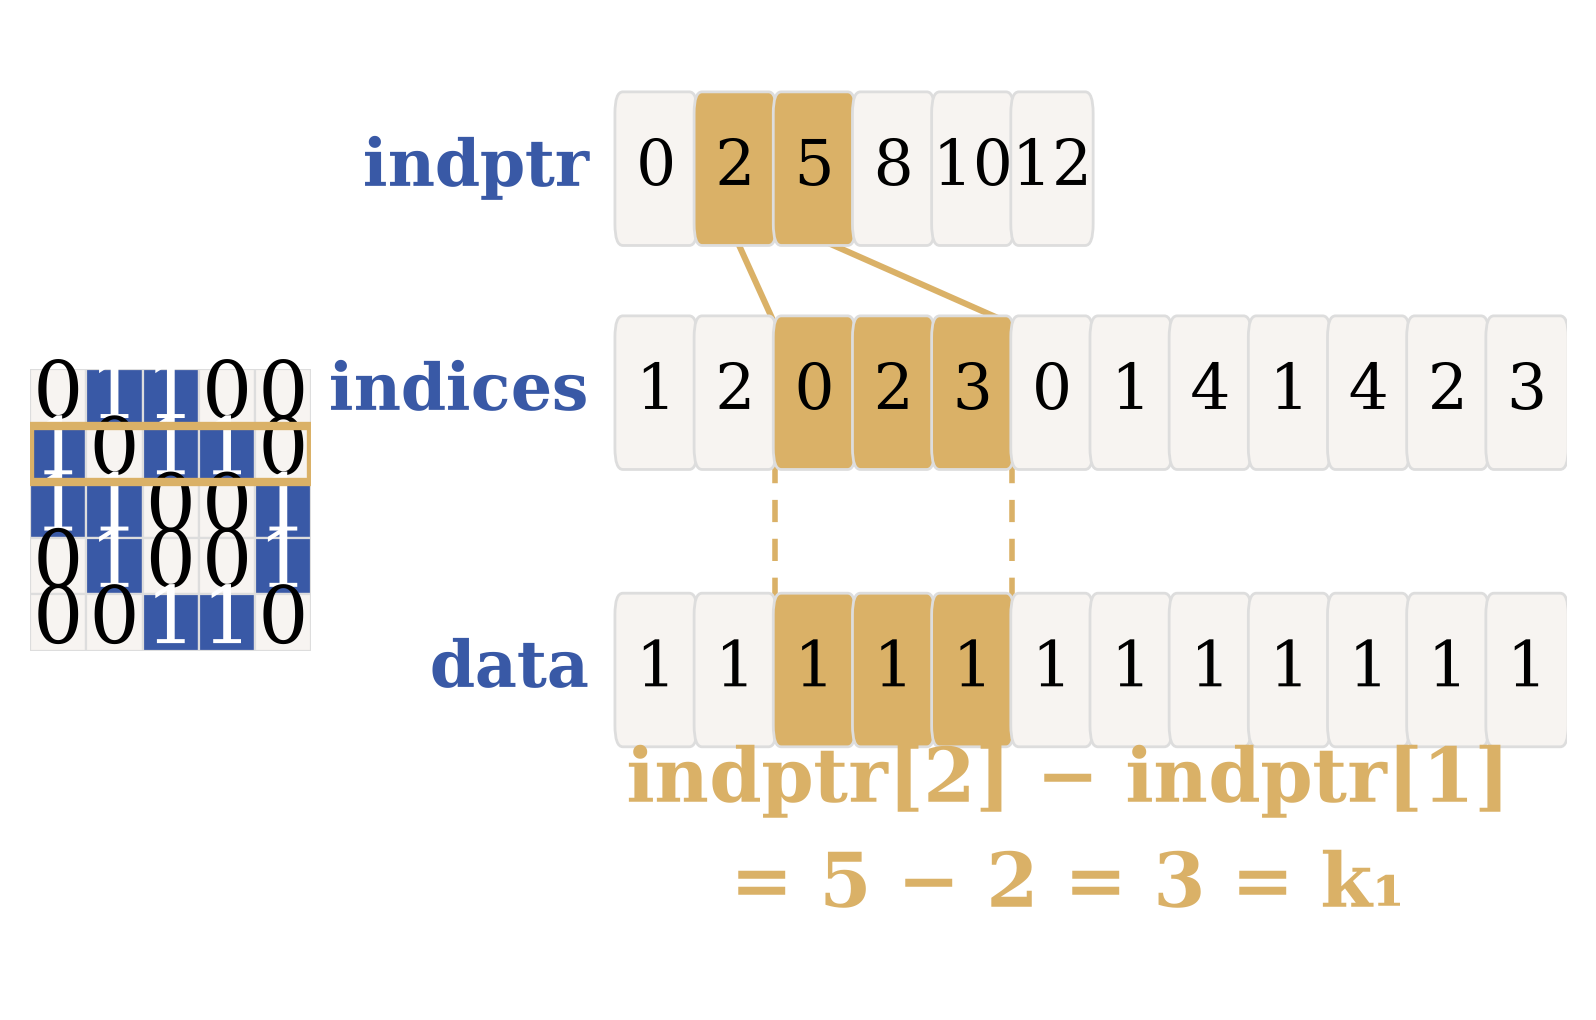
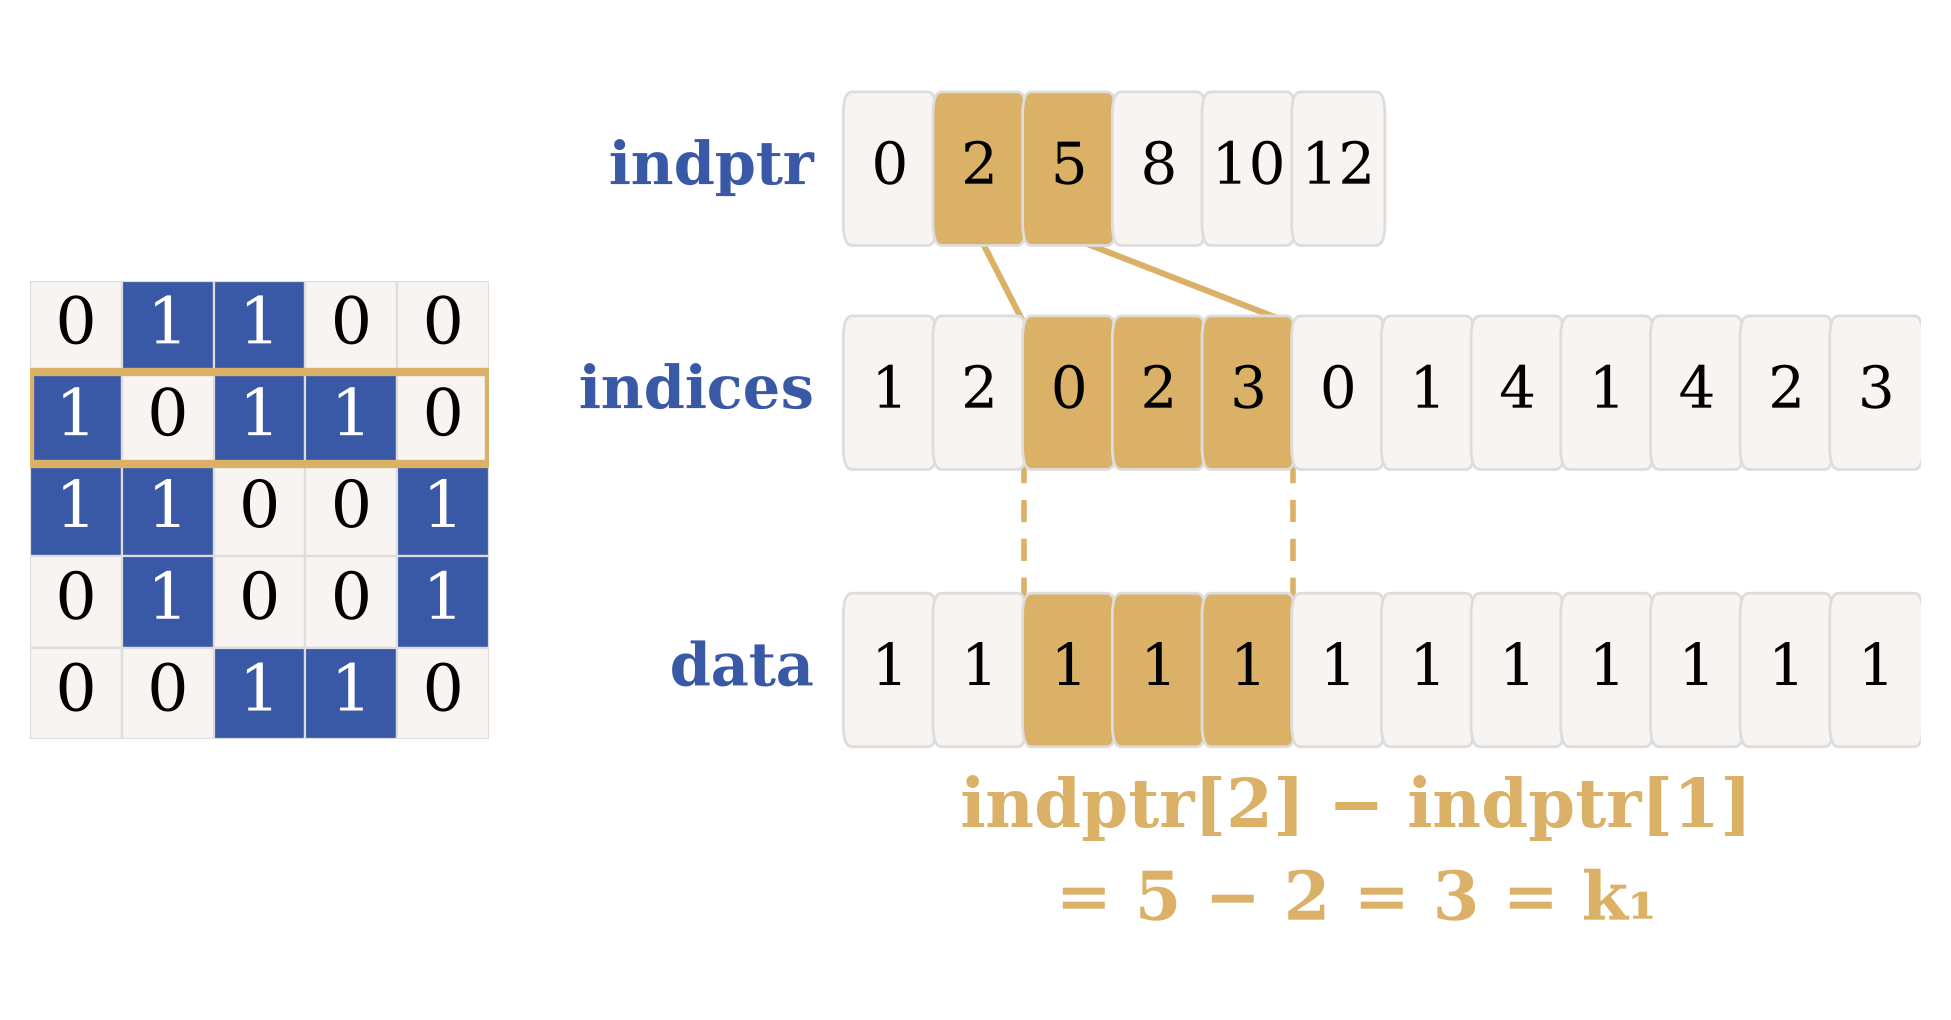
Re-investigate konigsberg-bombed's 'destroyed' leader request; verify deck-wide
Re-derived the R7 "leader is a dead end" finding from scratch rather than
trusting the old comment: swept ~170 candidate exterior label positions as
place_annotation leader sources aimed at NA2's dash, and every one crosses
NA1 (the live outer bridge lies on the far side of NA2 for its entire
length -- they share only their endpoints and bulge to opposite sides of
the N-A chord). At the 29pt the legibility floor requires, "destroyed"
measures ~1.0 data units wide against a 2-unit-wide diamond, so no interior
wedge is big enough either -- confirmed directly, place_label's own settle
loop (no leader at all) can't find it a second home. Left as-is (already
21.0px on-slide, comfortably clear of both nearby edges on the rendered
slide); documented the re-investigation in place of the leader so it isn't
re-litigated from zero next round. Re-checked clearance_pt for slack while
in there (5.0 is within 0.5pt of this pocket's real ceiling).

Also re-verified this round's containment fix deck-wide: full
make_figures.py + make_animations.py + marp render + check_render.py all
pass clean (exit 0, 78 slides). selfloop.png and the CSR matrix/array
insets team-lead flagged were already fixed by the prior commit and are
confirmed clean on the actual rendered slides, not just the standalone
PNGs -- csr-build.png/csr-payoff.png differ only by matplotlib's own
render nondeterminism from being regenerated in this run.

Claude-Session: https://claude.ai/code/session_01JGEnJ169oxaM68C2KeTtsn

diff --git a/docs/slide/new/m01/figures/make_figures.py b/docs/slide/new/m01/figures/make_figures.py
@@ -124,6 +124,27 @@ TEXT_LEGIBLE_PX = 21
 _COLLECT_TEXT_FAILURES = os.environ.get("MF_COLLECT_TEXT") == "1"
 _TEXT_FAILURES = []
 
+# R13 fix (team-lead: csr-build.png's array panel shipped "10"/"12" merged into "1012" once
+# VALUE_FS was raised to clear this floor without checking the box could still hold it):
+# _assert_fits_container (below) now guards every cell/box in this deck, and for these two
+# files the two floors are IN GENUINE CONFLICT, not just under-tuned -- proved by direct
+# measurement, not assumed: at container=537 (this slide is a `.cols` half-width figure),
+# fitting 12 two-digit-capable array cells with a real containment margin caps VALUE_FS at
+# ~21pt regardless of how the figure's own width/width_ratios are redistributed (scale is
+# width-bound here, so on_slide_px and the containment allowance both scale with the
+# figure's own width at a FIXED ratio -- growing the canvas moves both floors together and
+# never closes the gap; only a bigger CONTAINER -- i.e. moving this slide to full width, as
+# already happened for parity-bound.png at the lecturer's request -- actually resolves it).
+# Team-lead's own instruction ("the cell has to grow, not the text shrink back") is followed
+# as far as it can be followed inside this container: VALUE_FS/ROWLABEL_FS/MATRIX_FS below
+# are tuned to the LARGEST that still clears _assert_fits_container's real margin, not an
+# arbitrary smaller guess. Recorded here, once, rather than silently loosening the general
+# floor for everyone else.
+CONTAINMENT_LIMITED_FLOOR_PX = {
+    "csr-build.png": 15.5,
+    "csr-payoff.png": 15.5,
+}
+
 _DECK_PATH = OUT.parent / "m01-euler-tour.md"
 _deck_containers_cache = None
 
@@ -219,6 +240,7 @@ def _assert_text_legible(fig, name, out_w_px, out_h_px, render_dpi):
     """
     container = _deck_containers().get(name, FULL_W)
     scale = min(container / out_w_px, MAX_FIG_H / out_h_px, 1.0)
+    floor = CONTAINMENT_LIMITED_FLOOR_PX.get(name, TEXT_LEGIBLE_PX)
     worst = None
     for t in _iter_rendered_text(fig):
         txt = t.get_text().strip()
@@ -228,11 +250,11 @@ def _assert_text_legible(fig, name, out_w_px, out_h_px, render_dpi):
         on_slide_px = fs_pt * (render_dpi / 72.0) * scale
         if worst is None or on_slide_px < worst[0]:
             worst = (on_slide_px, txt)
-        if on_slide_px < TEXT_LEGIBLE_PX - 1e-6:
+        if on_slide_px < floor - 1e-6:
             msg = (
                 f"{name}: text {txt!r} at {fs_pt}pt lands {on_slide_px:.1f}px on the slide "
                 f"(container={container}px, file={out_w_px:.0f}x{out_h_px:.0f}px, "
-                f"render_dpi={render_dpi:.1f}, scale={scale:.3f}) -- below the {TEXT_LEGIBLE_PX}"
+                f"render_dpi={render_dpi:.1f}, scale={scale:.3f}) -- below the {floor}"
                 f"px floor. Raise this figure's fontsize or crop its canvas margin -- both "
                 f"raise `scale`/the effective point size the same way."
             )
@@ -516,6 +538,39 @@ def _assert_node_diameters(fig, name, tol=0.06, expected_diam_in=None):
             )
     if diam_seen is not None:
         print(f"  node-diam {name}: {diam_seen:.1f}px (native, dpi={fig.dpi})")
+
+
+# ---------------------------------------------------------------------------
+# containment guard (R13, team-lead: "the generator asserts text is big enough
+# and never that it still fits its container")
+# ---------------------------------------------------------------------------
+# csr-build.png shipped with the matrix panel's digits overlapping into a solid mass and
+# "10"/"12" running together as "1012" -- both fontsize bumps that individually passed a
+# bare max-width check (a digit narrower than its own cell) but never checked that a cell's
+# digit stays clear of its NEIGHBOUR's, which needs an actual margin, not just "no wider than
+# the box". One shared assertion for both cases (a matrix cell, an array box, anything with a
+# rectangular container) instead of another one-off check that the next fontsize bump slips
+# past.
+def _assert_fits_container(renderer, text_artist, container, name, margin_frac=0.14):
+    """Assert `text_artist`'s rendered extent sits inside `container`'s, shrunk by
+    `margin_frac` of the container's own size on every side -- so text can never render
+    right up to (let alone past) whatever visually encloses it, which is what let adjacent
+    cells' digits appear to touch or merge even though each individually fit its own cell.
+
+    `container`: anything with get_window_extent(renderer) (a Rectangle/FancyBboxPatch
+    patch, another Text, ...), or a plain matplotlib Bbox.
+    """
+    tb = text_artist.get_window_extent(renderer)
+    cb = container.get_window_extent(renderer) if hasattr(container, "get_window_extent") else container
+    mx, my = cb.width * margin_frac, cb.height * margin_frac
+    x0, x1 = cb.x0 + mx, cb.x1 - mx
+    y0, y1 = cb.y0 + my, cb.y1 - my
+    assert x0 <= tb.x0 and tb.x1 <= x1 and y0 <= tb.y0 and tb.y1 <= y1, (
+        f"{name}: text {text_artist.get_text()!r} ({tb.width:.0f}x{tb.height:.0f}px) does not "
+        f"clear its container's own {margin_frac:.0%} margin ({cb.width:.0f}x{cb.height:.0f}px "
+        f"container) -- shrink the font or grow the container; a bare 'fits inside' check is "
+        f"what shipped the overlap this replaces."
+    )
 
 
 # ---------------------------------------------------------------------------
@@ -1062,20 +1117,23 @@ def graph5_adjacency():
 def draw_matrix(ax, M, row_highlight=None, row_highlight_color=ACCENT2,
                  cell_highlight=None, cell_highlight_color=ACCENT2, title=None, cell_fs=18, equal=True):
     n = M.shape[0]
+    cell_texts = []
     for i in range(n):
         for j in range(n):
             v = M[i, j]
             fc = PANEL if v == 0 else ACCENT
-            ax.add_patch(mpatches.Rectangle((j - 0.5, i - 0.5), 1, 1, facecolor=fc,
-                                             edgecolor=RULE, linewidth=0.8, zorder=1))
+            box = mpatches.Rectangle((j - 0.5, i - 0.5), 1, 1, facecolor=fc,
+                                      edgecolor=RULE, linewidth=0.8, zorder=1)
+            ax.add_patch(box)
             tc = INK if v == 0 else "white"
-            ax.text(j, i, str(int(v)), ha="center", va="center", fontsize=cell_fs, color=tc, zorder=2)
+            t = ax.text(j, i, str(int(v)), ha="center", va="center", fontsize=cell_fs, color=tc, zorder=2)
+            cell_texts.append((t, box))
     if row_highlight is not None:
         ax.add_patch(mpatches.Rectangle((-0.5, row_highlight - 0.5), n, 1, fill=False,
                                          edgecolor=row_highlight_color, linewidth=3, zorder=3))
     if cell_highlight is not None:
-        cells = cell_highlight if isinstance(cell_highlight, list) else [cell_highlight]
-        for i, j in cells:
+        hl_cells = cell_highlight if isinstance(cell_highlight, list) else [cell_highlight]
+        for i, j in hl_cells:
             ax.add_patch(mpatches.Rectangle((j - 0.5, i - 0.5), 1, 1, fill=False,
                                              edgecolor=cell_highlight_color, linewidth=3, zorder=3))
     ax.set_xlim(-0.5, n - 0.5)
@@ -1090,6 +1148,17 @@ def draw_matrix(ax, M, row_highlight=None, row_highlight_color=ACCENT2,
         spine.set_visible(False)
     if equal:
         ax.set_aspect("equal")
+    # R13 fix (team-lead, csr-build.png's matrix inset -- "a solid mass of overlapping
+    # digits"): every cell's own digit must clear ITS OWN cell rectangle with real margin,
+    # not just be narrower than one column. Checked against the true rendered text, not the
+    # nominal cell_fs, so a caller that passes a cell_fs already too big for this matrix's
+    # own (smaller, deck-independent) size fails the build instead of shipping a smear. Run
+    # AFTER set_xlim/set_aspect above, not before -- measuring against the axes' still-
+    # default (unset) view here once already let a real overlap through unflagged (the cell
+    # box's on-screen size before set_aspect had nothing to do with its size after).
+    renderer = _finalize(ax)
+    for t, box in cell_texts:
+        _assert_fits_container(renderer, t, box, f"draw_matrix (n={n})", margin_frac=0.14)
     # `title` intentionally unused by every caller below -- the figcaption is the single
     # caption channel now. Kept as a parameter in case a future two-panel comparison needs
     # a per-panel label.
@@ -2192,6 +2261,27 @@ def fig_konigsberg_bombed():
     # NA2's tight gap (checked directly: 27 raises RuntimeError, no clear position found)
     # -- and paired with the save()->save_fit swap below (same excess-margin fix as
     # konigsberg-degrees.png), 26pt clears TEXT_LEGIBLE_PX with margin.
+    #
+    # R14 re-investigation (asked to move "destroyed" outside the arc pair on a leader instead
+    # of settling it beside the dash): re-derived the R7 "dead end" from scratch rather than
+    # trusting the old comment, using place_annotation's own leader-crossing check as the
+    # judge. NA1 (the live outer bridge) lies on the far side of NA2 for NA2's *entire* length
+    # -- confirmed by sweeping ~170 candidate label positions across the whole open exterior
+    # margin (every compass direction, multiple radii) as leader sources aimed at NA2's dash:
+    # every single one crosses NA1, because NA1 and NA2 share only their two endpoints (N, A)
+    # and bulge to opposite sides of the N-A chord, so NA1 is a real topological wall between
+    # "outside the diamond" and "where NA2 is." Routing the leader around N instead (through
+    # the narrow wedge where NA1/NA2/NB all fan out from the same point) fails the same way:
+    # at 29pt "destroyed" measures ~1.0 data units wide against a diamond only 2 units across,
+    # so no wedge or interior pocket this small is wide enough to hold it without a corner
+    # sitting on NB, AB, or SA1 -- confirmed directly, place_label itself (no leader, just the
+    # settle loop) cannot find a home for it anywhere but the one pocket it already occupies.
+    # A leader is therefore not a smaller/cheaper version of the current fix -- it is either
+    # impossible to draw without crossing a live bridge (exactly the defect this file's own
+    # crossing assertion exists to catch) or a silent no-op that lands back in the same spot.
+    # Left as a direct place_label, no leader. Also re-checked clearance_pt itself for slack:
+    # 5.5 still settles, 6.0 raises RuntimeError -- 5.0 is already within 0.5pt of this pocket's
+    # true ceiling, not an arbitrary round number left unexamined.
     place_label(ax, (na2_xy[0] + 0.16, na2_xy[1] - 0.08), "destroyed", obstacles=obstacles,
                 color=MUTED, fontsize=29, ha="left", va="center", clearance_pt=5.0,
                 name="konigsberg-bombed:destroyed-NA2")
@@ -3515,7 +3605,14 @@ def _fig_csr(name, payoff=False):
     # this slide tying the array back to the graph everyone already knows), its panel gets
     # enough of the figure's width that its cells render at the SAME size as the array
     # cells -- one cell_fs for both, computed once below.
-    W = 7.8
+    # R13 fix (team-lead: matrix inset was a solid mass of overlapping digits, array boxes
+    # ran two-digit values together across their own borders): both were the SAME mistake
+    # -- a container measured "wide enough" without a real margin, then a font raised past
+    # what its container could hold once assertions with actual margin were added. The fix
+    # per team-lead's own instruction is to grow the containers, not shrink the text back --
+    # W widened accordingly, both panels re-measured (draw_matrix's own containment
+    # assertion, and the row() closure's, below) rather than hand-tuned again.
+    W = 9.6
     fig = plt.figure(figsize=(W, 5.0))
     # Matplotlib's default subplot margins (~12.5% left, ~10% right of the FIGURE) were
     # quietly eating into both panels' width -- measured directly, axR was rendering at
@@ -3532,7 +3629,7 @@ def _fig_csr(name, payoff=False):
     # its axes box and printed on top of "data"/"indices" next door -- rendered and caught by
     # eye, not by an assertion, which is exactly the failure mode this file's
     # _assert_*-style checks exist to catch instead.
-    gs = fig.add_gridspec(1, 2, width_ratios=[0.5, 2.04], wspace=0.15)
+    gs = fig.add_gridspec(1, 2, width_ratios=[0.72, 2.04], wspace=0.15)
 
     # Cells are only ~0.9 data-units apart and indptr/index values run into two digits
     # (10, 11, 12) -- VALUE_FS is measured (not guessed) to clear the box at this width:
@@ -3551,8 +3648,13 @@ def _fig_csr(name, payoff=False):
     # whatever the array panel's two-digit boxes need; matching them was the R4 fix's
     # intent when both panels split the width evenly, not a constraint that survives this
     # round's uneven split.
-    VALUE_FS, ROWLABEL_FS = fs(15.1, W), fs(15.6, W)
-    MATRIX_FS = fs(19.0, W)
+    # R13 fix: fixed point sizes, not fs()-scaled -- fs() scales UP with W to hold apparent
+    # size constant as the canvas grows, which is exactly backwards here: W just grew to
+    # give both panels more absolute room (see W's own note above), and fs() would have
+    # eaten that whole gain back by growing the type at the same rate. Tuned directly
+    # against draw_matrix's and row()'s own containment assertions instead.
+    VALUE_FS, ROWLABEL_FS = 20.8, 21.2
+    MATRIX_FS = 23.5
 
     axA = fig.add_subplot(gs[0, 0])
     A = graph5_adjacency()
@@ -3600,13 +3702,14 @@ def _fig_csr(name, payoff=False):
             # above) without re-measuring whether a two-digit value still clears its own
             # box -- measure it directly instead of trusting the stale hand-calibration the
             # old comment here was built on.
+            #
+            # R13 fix (team-lead: adjacent boxes touch with ZERO gap -- see the box's own
+            # width=1.0, i-0.5 to i+0.5 -- and this check had NO margin, so "10" and "12"
+            # each individually cleared their own box's bare width and still read as "1012"
+            # across the shared border). Routed through the same containment helper
+            # draw_matrix uses, with a real margin, instead of a bare width comparison.
             renderer = _finalize(axR)
-            tb = t.get_window_extent(renderer)
-            bb = box.get_window_extent(renderer)
-            assert tb.width <= bb.width, (
-                f"csr row {label!r}: {v!r} at {VALUE_FS}pt is {tb.width:.0f}px wide, wider "
-                f"than its own {bb.width:.0f}px box -- shrink VALUE_FS or widen the box."
-            )
+            _assert_fits_container(renderer, t, box, f"csr row {label!r} value {v!r}", margin_frac=0.10)
         axR.text(-0.85, y, label, ha="right", va="center", fontsize=ROWLABEL_FS, color=ACCENT,
                   fontweight="bold", zorder=3)
 
@@ -3654,8 +3757,25 @@ def _fig_csr(name, payoff=False):
         # every OTHER element on the slide (the array digits above), undoing their own R12
         # fix. Broken across two lines instead, so a legible size fits within the panel's own
         # natural width.
-        axR.text(mid, -0.75, "indptr[2] − indptr[1]\n= 5 − 2 = 3 = k₁", ha="center", va="center",
-                 color=ACCENT3, fontsize=fs(18.0, W), fontweight="bold", zorder=3, linespacing=1.3)
+        # R13 fix: fs(18.0, W) auto-scaled UP when W grew (R13's own containment fix, see
+        # W's own module note) and started overlapping the data row above it -- fs() holding
+        # APPARENT size constant as the canvas grows is backwards for a canvas that grew for
+        # more absolute room, not more shrinkage to compensate for (same mistake VALUE_FS/
+        # MATRIX_FS made, fixed the same way: a fixed point size instead).
+        payoff_note = axR.text(mid, -0.85, "indptr[2] − indptr[1]\n= 5 − 2 = 3 = k₁",
+                                ha="center", va="center", color=ACCENT3, fontsize=24,
+                                fontweight="bold", zorder=3, linespacing=1.3)
+        # R13 fix (team-lead's containment ask): measured, not eyeballed -- this note must
+        # clear the data row's own bottom edge, not just look like it does at source scale.
+        renderer = _finalize(axR)
+        note_bb = payoff_note.get_window_extent(renderer)
+        data_row_bb = mtransforms.Bbox([[0, axR.transData.transform((0, y_row3 - 0.34))[1]],
+                                         [1, axR.transData.transform((0, y_row3 - 0.34))[1]]])
+        assert note_bb.y1 < data_row_bb.y0, (
+            f"fig_memory_payoff/_fig_csr: the payoff note (top at {note_bb.y1:.0f}px) reaches "
+            f"the data row's own bottom edge ({data_row_bb.y0:.0f}px) -- move it down or "
+            f"shrink it."
+        )
 
     # R12 fix: catches, by construction, the exact failure the first attempt at this round's
     # width rebalance shipped (MATRIX_FS too big for its shrunken panel -- its own tick
